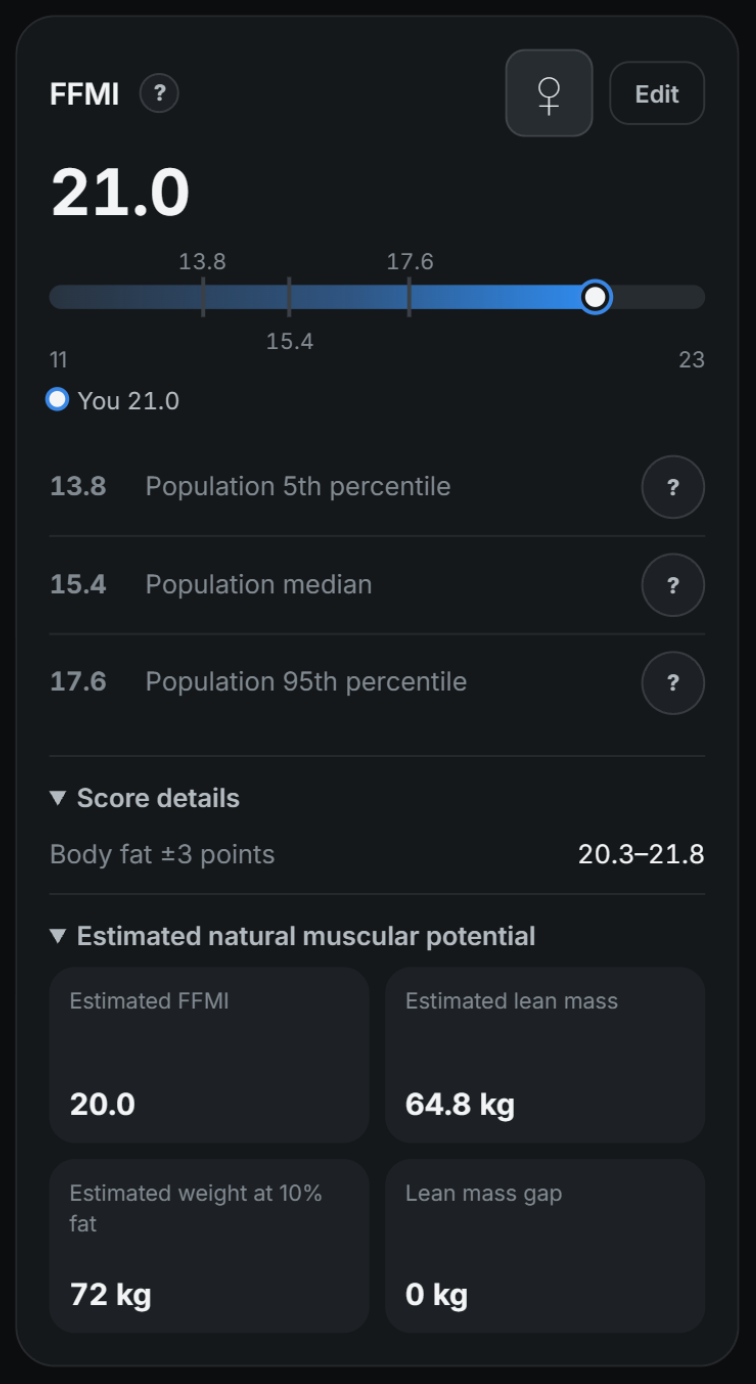
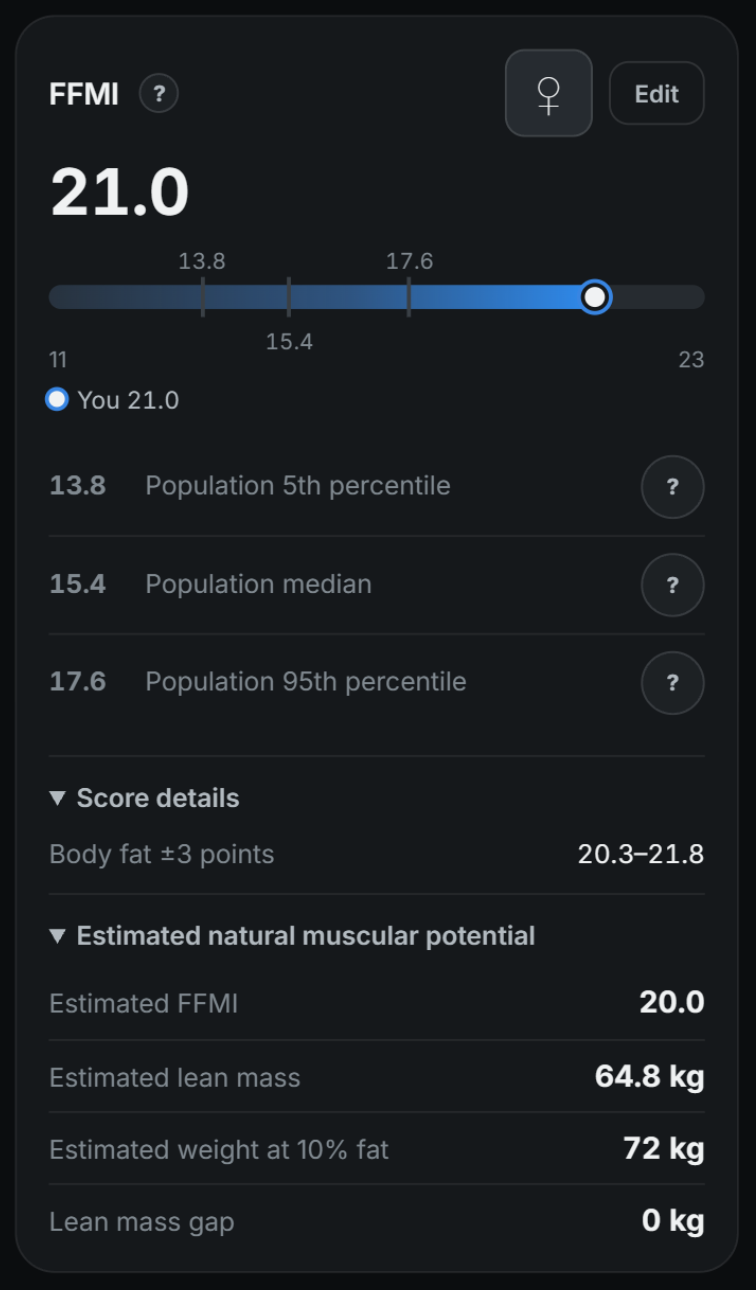
Use compact rows for muscular potential estimates

diff --git a/frontend/src/ffmi.css b/frontend/src/ffmi.css
@@ -254,29 +254,36 @@ button.ffmi-methodology-link {
 
 .ffmi-potential {
   display: grid;
-  grid-template-columns: repeat(2, minmax(0, 1fr));
-  gap: 0.5rem;
   margin: 0.5rem 0 0;
 }
 
 .ffmi-potential div {
-  border-radius: 13px;
-  padding: 0.625rem;
-  background: var(--p-surface-2);
+  display: grid;
+  grid-template-columns: minmax(0, 1fr) auto;
+  align-items: baseline;
+  gap: 1rem;
+  border-bottom: 1px solid var(--p-line);
+  padding: 0.5rem 0;
+}
+
+.ffmi-potential div:last-child {
+  border-bottom: 0;
+  padding-bottom: 0;
 }
 
 .ffmi-potential dt {
   color: var(--p-muted);
-  font-size: 0.6875rem;
-  line-height: 1.35;
-  min-height: 4.05em;
+  font-size: 0.8125rem;
+  line-height: 1.4;
 }
 
 .ffmi-potential dd {
-  margin: 0.25rem 0 0;
+  margin: 0;
   font-size: 0.9375rem;
   font-weight: 700;
   font-variant-numeric: tabular-nums;
+  text-align: right;
+  white-space: nowrap;
 }
 
 .ffmi-profile-form .segmented-control {

diff --git a/docs/RELEASE-NOTES.md b/docs/RELEASE-NOTES.md
@@ -64,6 +64,10 @@ _The existing question-marks explain standard scoring, the reference sample, ill
 
 _Each reference row has a question-mark with a short explanation using the selected sex and value. Keyboard, close/Escape and focus return use the existing help popup. Synthetic sample data._
 
+![Compact muscular-potential rows with labels on the left and estimates on the right](screenshots/releases/1.1.0-ffmi-compact-potential.png)
+
+_The four estimates use compact rows with subtle dividers, replacing the large tiles. Synthetic sample data._
+
 ![Standard FFMI with sex-specific population references and separate expandable score and frame details](screenshots/releases/1.1.0-ffmi.png)
 
 _The score uses conventional FFMI for either sex. The saved icon changes the reference population, with matched median and percentile points. Score details and the frame-based model stay separate. Synthetic sample data._
@@ -156,7 +160,7 @@ _The circular Start button matches its workout choices. Isolated sample data._
 
 - **Your splits, one page:** all saved splits and templates live together. The active split has a blue border and opens to its next seven days; centred week/calendar buttons switch the preview. Its calendar uses the shared Home component, one month at a time, limited to the current and next month. Saved template cycles are greyed out to prevent duplicates, including after a reload or rename. Changing their saved workout/rest days or deleting the copy makes the template available again. Sharing and deletion live in each saved split's options instead of the editor. Your profile has a **My splits** button beside **Last 12 weeks**, without repeating the saved list or a Save current split button. Other members' profiles retain their shared splits and private copying. Use split confirms a start date and updates the Active badge without a success popup; Edit split can change that date or pause the plan. Saving stays on the page with temporary popup feedback. Unlinked plans remain visible without automatic writes and link atomically on save. Private plans can be activated before adding exercises; publishing still requires exercises on every workout day. Audience checks and blocks protect sharing; copies survive unsharing or deletion. Up next prefills planned sets unchecked.
 - **Body measurements:** log dated circumferences for neck, shoulders, chest, waist, hips, left/right upper arms, thighs and calves, wrist and ankle. Filter history by body part for dated values and changes from the previous recorded measurement, edit or delete entries, and use cm or inches with your unit preference. No weigh-in is required; records stay private and are included in account backups.
-- FFMI now uses fat-free mass divided by height squared for both sexes. The saved sex icon selects matched population 5th, median and 95th percentile references, replacing the athlete and drug-use ranking. A question-mark beside each reference explains it in plain language using the selected male or female value. Reference data describe a young-adult Swiss sample, not worldwide or gym-goer norms. Score details offers a separate male height-adjusted figure and an illustrative body-fat sensitivity range. The optional Estimated natural muscular potential is separate from the chart and does not predict a personal genetic limit. Existing check-ins and saved dimensions are retained; earlier adjusted scores may differ. Both question-marks explain the change and limitations inside the app without external links.
+- FFMI now uses fat-free mass divided by height squared for both sexes. The saved sex icon selects matched population 5th, median and 95th percentile references, replacing the athlete and drug-use ranking. A question-mark beside each reference explains it in plain language using the selected male or female value. Reference data describe a young-adult Swiss sample, not worldwide or gym-goer norms. Score details offers a separate male height-adjusted figure and an illustrative body-fat sensitivity range. The optional Estimated natural muscular potential is separate from the chart and does not predict a personal genetic limit. Its four estimates use compact label/value rows with subtle dividers instead of large tiles. Existing check-ins and saved dimensions are retained; earlier adjusted scores may differ. Both question-marks explain the change and limitations inside the app without external links.
 
 - Workout exercise headers show only the last-performed date, without the previous weights and reps beside it. **Equipment photo** no longer shows **Take or choose a photo** when no photos are saved, and its pinned-count pill has a grey background.
 - In Equipment photo, choose Select to pick multiple saved machines, review their cover, name and future settings, then merge them. All photos and workout links are kept together, including older drafts; settings recorded in existing workouts stay unchanged.
